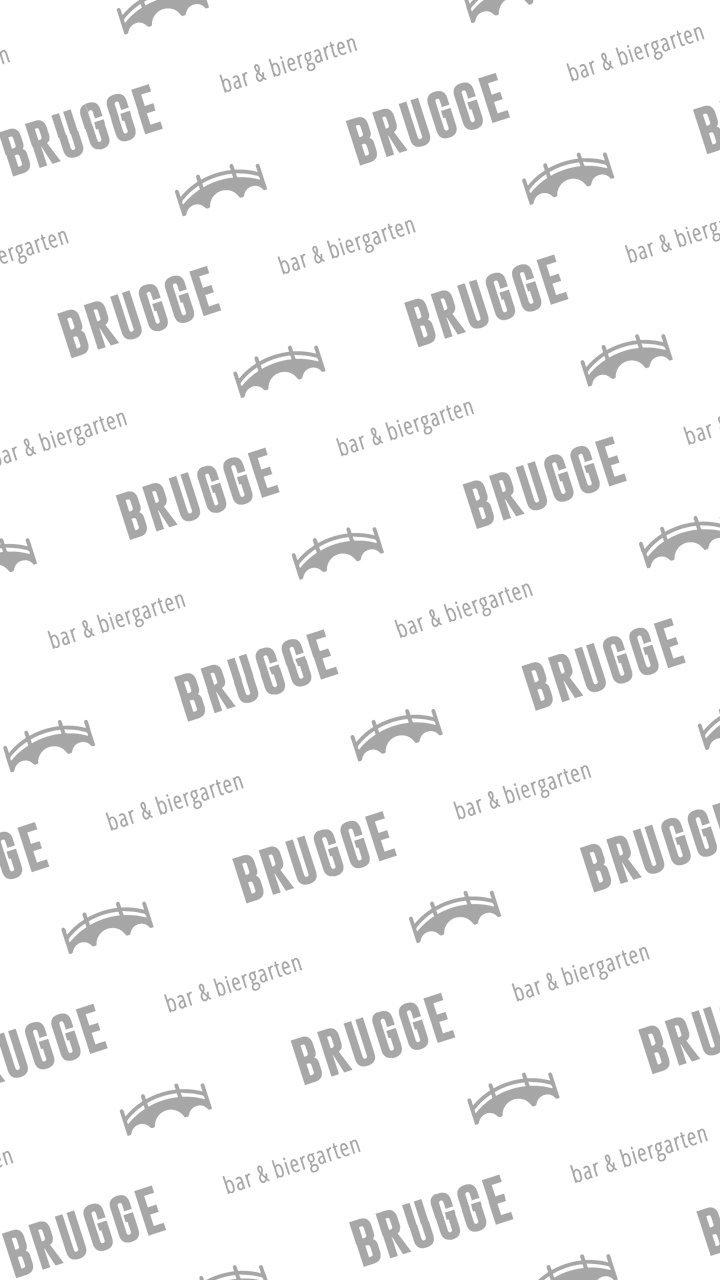
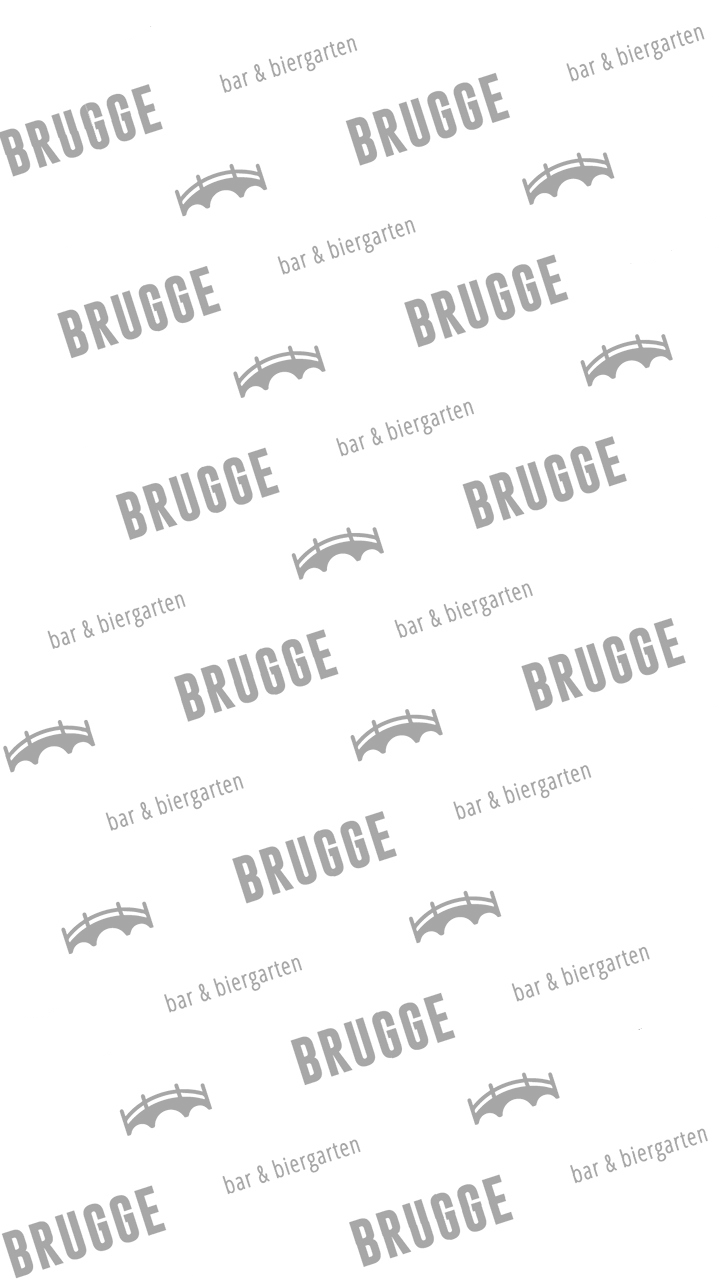
Estilos: Correcciones estéticas y de fondos de la aplicación

diff --git a/src/app/_services/notification.service.ts b/src/app/_services/notification.service.ts
@@ -1,12 +1,12 @@
-import { Injectable } from '@angular/core';
-import { OneSignal } from '@ionic-native/onesignal/ngx';
+import { Injectable } from "@angular/core";
+import { OneSignal } from "@ionic-native/onesignal/ngx";
 import { Router } from "@angular/router";
+import { AuthService } from "@app/_services/auth.service";
 
 @Injectable({
-  providedIn: 'root'
+  providedIn: "root"
 })
 export class NotificationService {
-
   get appId(): string {
     return this._appId;
   }
@@ -23,13 +23,19 @@ export class NotificationService {
   private _authKey: string = "MDFlN2NjNjctMGY1MC00ZTVmLThhOTEtMWJmZTI3NDI4YzFk";
   private _senderId: string = "287785352097";
 
-  constructor(private oneSignal: OneSignal, private router: Router) { }
+  constructor(
+    private authService: AuthService,
+    private oneSignal: OneSignal,
+    private router: Router
+  ) {}
 
-  init(){
+  init() {
     // I recommend to put these into your environment.ts
     this.oneSignal.startInit(this.appId, this.senderId);
 
-    this.oneSignal.inFocusDisplaying(this.oneSignal.OSInFocusDisplayOption.None);
+    this.oneSignal.inFocusDisplaying(
+      this.oneSignal.OSInFocusDisplayOption.None
+    );
 
     // Notifcation was received in general
     this.oneSignal.handleNotificationReceived().subscribe(data => {
@@ -43,7 +49,11 @@ export class NotificationService {
       // Just a note that the data is a different place here!
       let additionalData = data.notification.payload.additionalData;
 
-      this.navigate('Notification opened', 'You already read this before', additionalData);
+      this.navigate(
+        "Notification opened",
+        "You already read this before",
+        additionalData
+      );
     });
 
     this.oneSignal.endInit();
@@ -52,15 +62,20 @@ export class NotificationService {
   async navigate(title, msg, data) {
     const route = data.route;
     const id = data.id;
-    if(route === "coupons"){
-      this.router.navigate(["/coupons"]);
-    }
-    if(route === "coupon-detail" && id){
-      this.router.navigate(["/coupon-detail/" + id]);
-    }
-    if(route === "recommended"){
-      this.router.navigate(["/recommended"]);
+    // alert("NOTIFICATION HANDLED. Route: " + route);
 
-    }
+    this.authService.loggedIn.subscribe(userLogged => {
+      if (userLogged) {
+        if (route === "coupons") {
+          this.router.navigate(["/coupons"]);
+        }
+        if (route === "coupon-detail" && id) {
+          this.router.navigate(["/coupon-detail/" + id]);
+        }
+        if (route === "recommended") {
+          this.router.navigate(["/recommended"]);
+        }
+      }
+    });
   }
 }

diff --git a/src/app/register/register.page.ts b/src/app/register/register.page.ts
@@ -11,7 +11,6 @@ import { Platform } from "@ionic/angular";
 })
 export class RegisterPage {
   phone: string = "54342";
-  // phone: string = "543425783414";
   firstName: string = "";
   lastName: string = "";
   verificationCode: string = "";
@@ -32,6 +31,10 @@ export class RegisterPage {
     this.authService.verificationCodeSent.subscribe(status => {
       this.registrationFormVisible = status;
     });
+  }
+
+  ionViewDidLeave() {
+    this.authService.verificationCodeSent.next(false);
   }
 
   async getCode() {
@@ -56,15 +59,7 @@ export class RegisterPage {
       ? this.recaptchaVerifier
       : this.authService.getVerificationCaptcha();
 
-    if (this.platform.is("mobileweb") || this.platform.is("desktop")) {
-      this.authService.getSmsVerificationCode(
-        parsedPhone,
-        this.recaptchaVerifier
-      );
-  }
-    else if (this.platform.is("android") || this.platform.is("ios")) {
-      this.authService.getSmsVerificationCodeNative(parsedPhone);
-    }
+    this.authService.getSmsVerificationCodeNative(parsedPhone);
   }
 
   checkInputs() {
@@ -75,6 +70,7 @@ export class RegisterPage {
 
   resetPhone() {
     this.registrationFormVisible = false;
+    this.verificationCode = "";
   }
 
   clear() {
@@ -90,26 +86,14 @@ export class RegisterPage {
   }
 
   register() {
-    if (this.platform.is("mobileweb") || this.platform.is("desktop")) {
-      this.authService.smsAuth(
-        {
-          firstName: this.firstName,
-          lastName: this.lastName,
-          email: this.phone
-        },
-        this.authService.verificationId,
-        this.verificationCode
-      );
-    } else if (this.platform.is("android") || this.platform.is("ios")) {
-      this.authService.smsAuthNative(
-        {
-          firstName: this.firstName,
-          lastName: this.lastName,
-          email: this.phone
-        },
-        this.authService.verificationId,
-        this.verificationCode
-      );
-    }
+    this.authService.smsAuthNative(
+      {
+        firstName: this.firstName,
+        lastName: this.lastName,
+        email: this.phone
+      },
+      this.authService.verificationId,
+      this.verificationCode
+    );
   }
 }

diff --git a/src/app/_services/auth.service.ts b/src/app/_services/auth.service.ts
@@ -65,7 +65,7 @@ export class AuthService {
     firebase.initializeApp(environment.firebaseConfig);
 
     // Emit logged in status whenever auth state changes
-    firebase.auth().onAuthStateChanged(firebaseUser => {
+    this.firebaseAuthentication.onAuthStateChanged().subscribe(firebaseUser => {
       this.zone.run(() => {
         firebaseUser ? this.loggedIn.next(true) : this.loggedIn.next(false);
         if (firebaseUser) {
@@ -178,11 +178,8 @@ export class AuthService {
       localStorage.removeItem("customer");
       this.customerSubject.next(null);
 
-      if (this.platform.is("android") || this.platform.is("ios")) {
-        await this.firebaseAuthentication.signOut(); // Unauth with Firebase
-      } else {
-        await firebase.auth().signOut();
-      }
+      await this.firebaseAuthentication.signOut(); // Unauth with Firebase
+      await firebase.auth().signOut();
 
       this.router.navigate(["login"]);
     } catch (err) {

diff --git a/src/assets/scss/fonts.scss b/src/assets/scss/fonts.scss
@@ -19,7 +19,13 @@ p {
 ion-content{
   background-color: #cccccc;
   //opacity: 0.5;
-  --background: url("/assets/img/background.png") 100% no-repeat
+  @media (max-width: 720px) {
+    --background: url("/assets/img/background-full.png");
+  }
+  @media (min-width: 721px) {
+    --background: url("/assets/img/background.png");
+  }
+  background-size: 100% 100%;
 }
 
 //ion-split-pane{

diff --git a/src/app/coupons/coupons.page.scss b/src/app/coupons/coupons.page.scss
@@ -45,11 +45,12 @@ ion-card{
       padding: 4px;
       color: white;
       font-family: "Open Sans Condensed";
-      font-size: 12px;
+      font-size: 14px;
       line-height: 28px;
       font-weight: 400;
       background-color: rgba(0,0,0, 0.75);
       //text-transform: none;
+      text-transform: uppercase;
       letter-spacing: 0;
     }
   }

diff --git a/src/app/profile/profile.page.scss b/src/app/profile/profile.page.scss
@@ -15,12 +15,14 @@ ion-card-header{
   }
   ion-card-subtitle{
     font-family: 'Open Sans Condensed', sans-serif;
+    text-transform: uppercase;
     margin-top: 4px;
   }
 }
 
 p {
   font-family: 'Open Sans Condensed', sans-serif;
+  text-transform: uppercase;
   strong{
     font-weight: 500;  
   }

diff --git a/src/app/coupon-detail/coupon-detail.page.scss b/src/app/coupon-detail/coupon-detail.page.scss
@@ -1,6 +1,7 @@
 ion-button{
   ion-label{
     font-family: 'Open Sans Condensed', sans-serif;
+    text-transform: uppercase;
     font-size: 1rem;
     font-weight: 600;
     margin-left: 10px;
